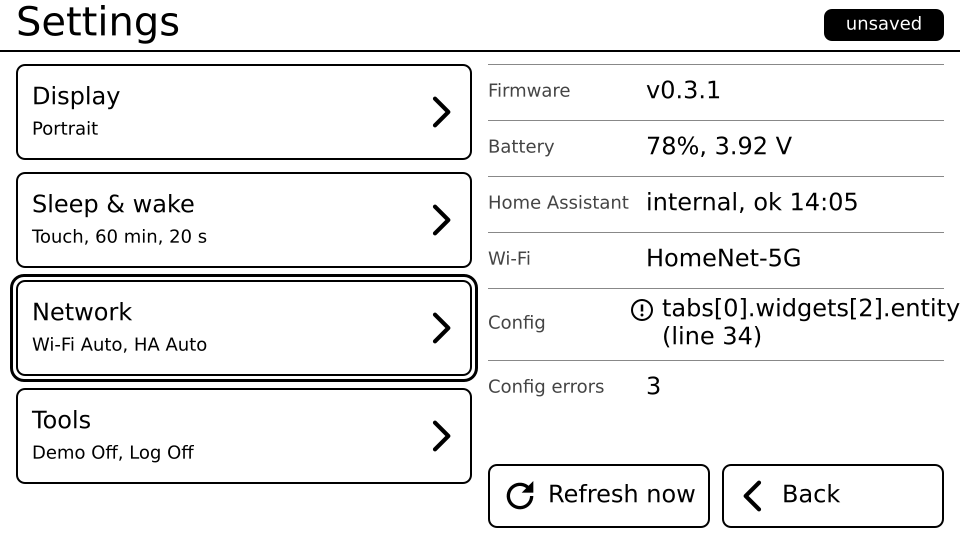
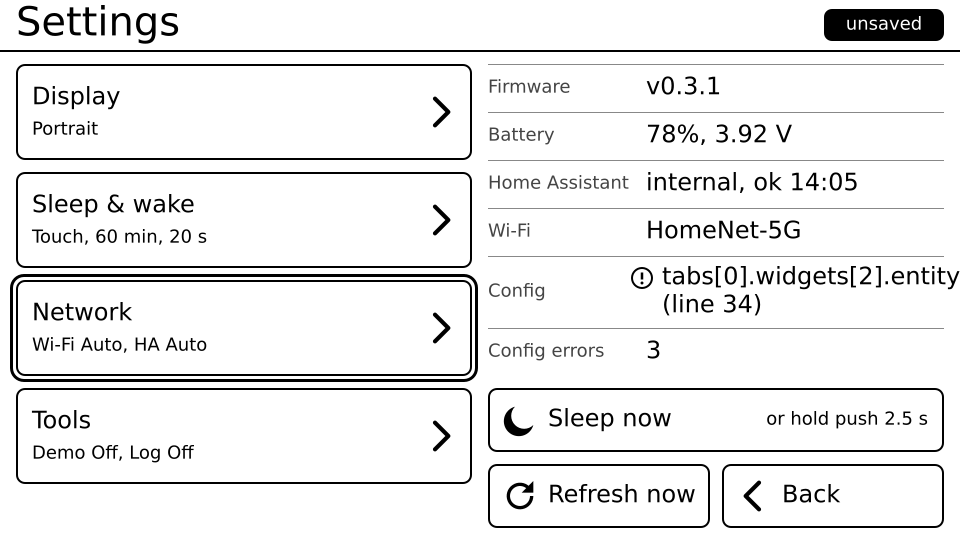
task 081: UI spec for Stay awake on USB and Sleep now

diff --git a/docs/ui/settings.md b/docs/ui/settings.md
@@ -76,7 +76,7 @@ Settings is a two-level system: the **overview** (main page) lists four **catego
 | Category | Settings (edit buffer fields) |
 |----------|-------------------------------|
 | Display | Orientation |
-| Sleep & wake | Wake mode, Refresh every, Idle timeout |
+| Sleep & wake | Wake mode, Refresh every, Idle timeout, Stay awake on USB (9.1) |
 | Network | Wi-Fi (`Auto` / profile names from secrets.yaml), HA connection (`Auto` / `Internal` / `External`) |
 | Tools | Demo mode, Debug log |
 
@@ -222,3 +222,39 @@ Rocker: focus stops on a category page = its rows top to bottom (landscape Netwo
 
 States on category pages: Normal as the mockups; Loading none; Network offline: hint `Link: none (offline)` and the rows stay editable; entity unavailable: not relevant.
 Refresh: entering and leaving a page = GC16 full; row toggles = one partial of the row (INK only, `epd_fastest`); note appear/clear = partial of the note rect.
+
+
+## 9. Stay awake on USB and Sleep now (revision 8, task 081)
+
+Mockups: `settings-portrait.svg` / `settings-landscape.svg` (overview, Sleep now row), `settings-sleep-portrait.svg` / `settings-sleep-landscape.svg` (toggle row, shown On, unsaved). Placement decision: the toggle is a sleep setting, so it lives on the **Sleep & wake** page (not the overview, which has no room for two more rows); only the action **Sleep now** is on the overview.
+
+### 9.1 Stay awake on USB (Sleep & wake page)
+Data: `settings::Settings.stay_awake_usb` (bool, default Off, saved on leaving like all settings; task 081 persists it in NVS). Hint row type (3.1), 88 high, `Off` / `On` cycle, value F40 INK.
+
+| Element | Portrait | Landscape | Font |
+|---------|----------|-----------|------|
+| Row | (16, 320, 508, 88), border 2 INK, radius 8, PAPER | (488, 64, 456, 88) (right column, top) | |
+| Label `Stay awake on USB` | x 32, cy 352 | x 504, cy 96 | F24 INK |
+| Hint `Never sleeps while on USB power` (static) | x 32, cy 382 | x 504, cy 126 | F18 INK |
+| Value `Off` / `On` | right edge x 508, cy 364 | right edge x 928, cy 108 | F40 INK |
+
+Touch-wake note slot moves below it in portrait: (16, 420, 508, 64) (landscape unchanged, (16, 304, 456, 64)). Ids: w-4 = this row, w-5 = note, w-6 = Back. Rocker focus order: Wake mode, Refresh every, Idle timeout, Stay awake on USB, Back. PUSH or tap toggles in the shared buffer; redraw = the row only (one partial, `epd_fastest`), plus the `unsaved` chip if the dirty flag flipped. Takes effect when Settings is left (the idle decision reads the saved value). Off = idle sleep exactly as today. On with no USB power: nothing changes visibly; battery sleep is unchanged. No separate "USB detected" indicator (OPEN-S7).
+
+### 9.2 Sleep now (overview)
+| Element | Portrait | Landscape | Font / grey |
+|---------|----------|-----------|-------------|
+| Row (button look, as Refresh now) | (16, 804, 508, 64) | (488, 388, 456, 64) | border 2 INK, radius 8, PAPER |
+| moon icon (M, 40 x 40) | (28, 816) | (500, 400) | INK |
+| Label `Sleep now` | x 76, cy 836 | x 548, cy 420 | F24 INK |
+| Right hint `or hold push 2.5 s` (static) | right edge x 508, cy 836 | right edge x 928, cy 420 | F18 INK |
+
+The hint teaches the rocker shortcut (hold PUSH >= 2.5 s sleeps from anywhere, also main screen and popups). Because the row had to fit, the info block is tighter: portrait rows 44/44/44/44/64/48 from y = 504 (ends 792; Sleep now follows at +12); landscape rows 48/48/48/48/72/48 from y = 64 (ends 376). Info text positions stay row-centred (3.3 rules), Config two lines at cy -14 / +14. Footer buttons unchanged. Ids: w-5 = Sleep now, w-6 Refresh now, w-7 Back.
+
+Interactions: tap or PUSH on the row = the same path as the idle auto-leave (rule 5): leave Settings (save if dirty, apply orientation/demo/network), draw the tab screen with a full refresh, then the normal sleep path (sleep badge, wake sources, refresh alarm per wake settings; the refresh alarm is skipped only while idling on USB with the setting On; Sleep now itself always sleeps normally). No confirm dialog (waking is cheap, a hold is as unguarded). Rocker focus order on the overview: 1 Display, 2 Sleep & wake, 3 Network, 4 Tools, 5 Sleep now, 6 Refresh now, 7 Back (landscape: left column, then Sleep now, Refresh now, Back). No pending look (the device is sleeping within about 2 s). States: demo mode, offline, etc. do not change the row; it is always enabled.
+
+### 9.3 Hold-to-sleep feedback
+No on-screen countdown (partial refresh while holding would ghost and cost battery). Feedback is the sleep sequence itself: tab screen full refresh + sleep badge. Holds of 600 ms to < 2.5 s keep the long-push meaning (open/leave Settings, close popups).
+
+### 9.4 OPEN
+- OPEN-S7: no USB-power indicator on the toggle row; Battery info row already shows the bolt icon when charging. Add a hint `USB power detected` only if task 081 finds a reliable signal (architect).
+- OPEN-S8: toggle placed on the Sleep & wake page, not on the overview (coordinator's wording suggested the overview).

diff --git a/docs/tasks/081-usb-stay-awake-and-sleep-now.md b/docs/tasks/081-usb-stay-awake-and-sleep-now.md
@@ -2,7 +2,7 @@
 
 Status: todo
 Depends on: 035 (sleep), 080 not required
-UI spec: docs/ui/ (ui-designer: Settings toggle row, "Sleep now" row, hint text) — to be written
+UI spec: docs/ui/settings.md section 9 (done)
 Needs device: yes
 
 ## Scope
